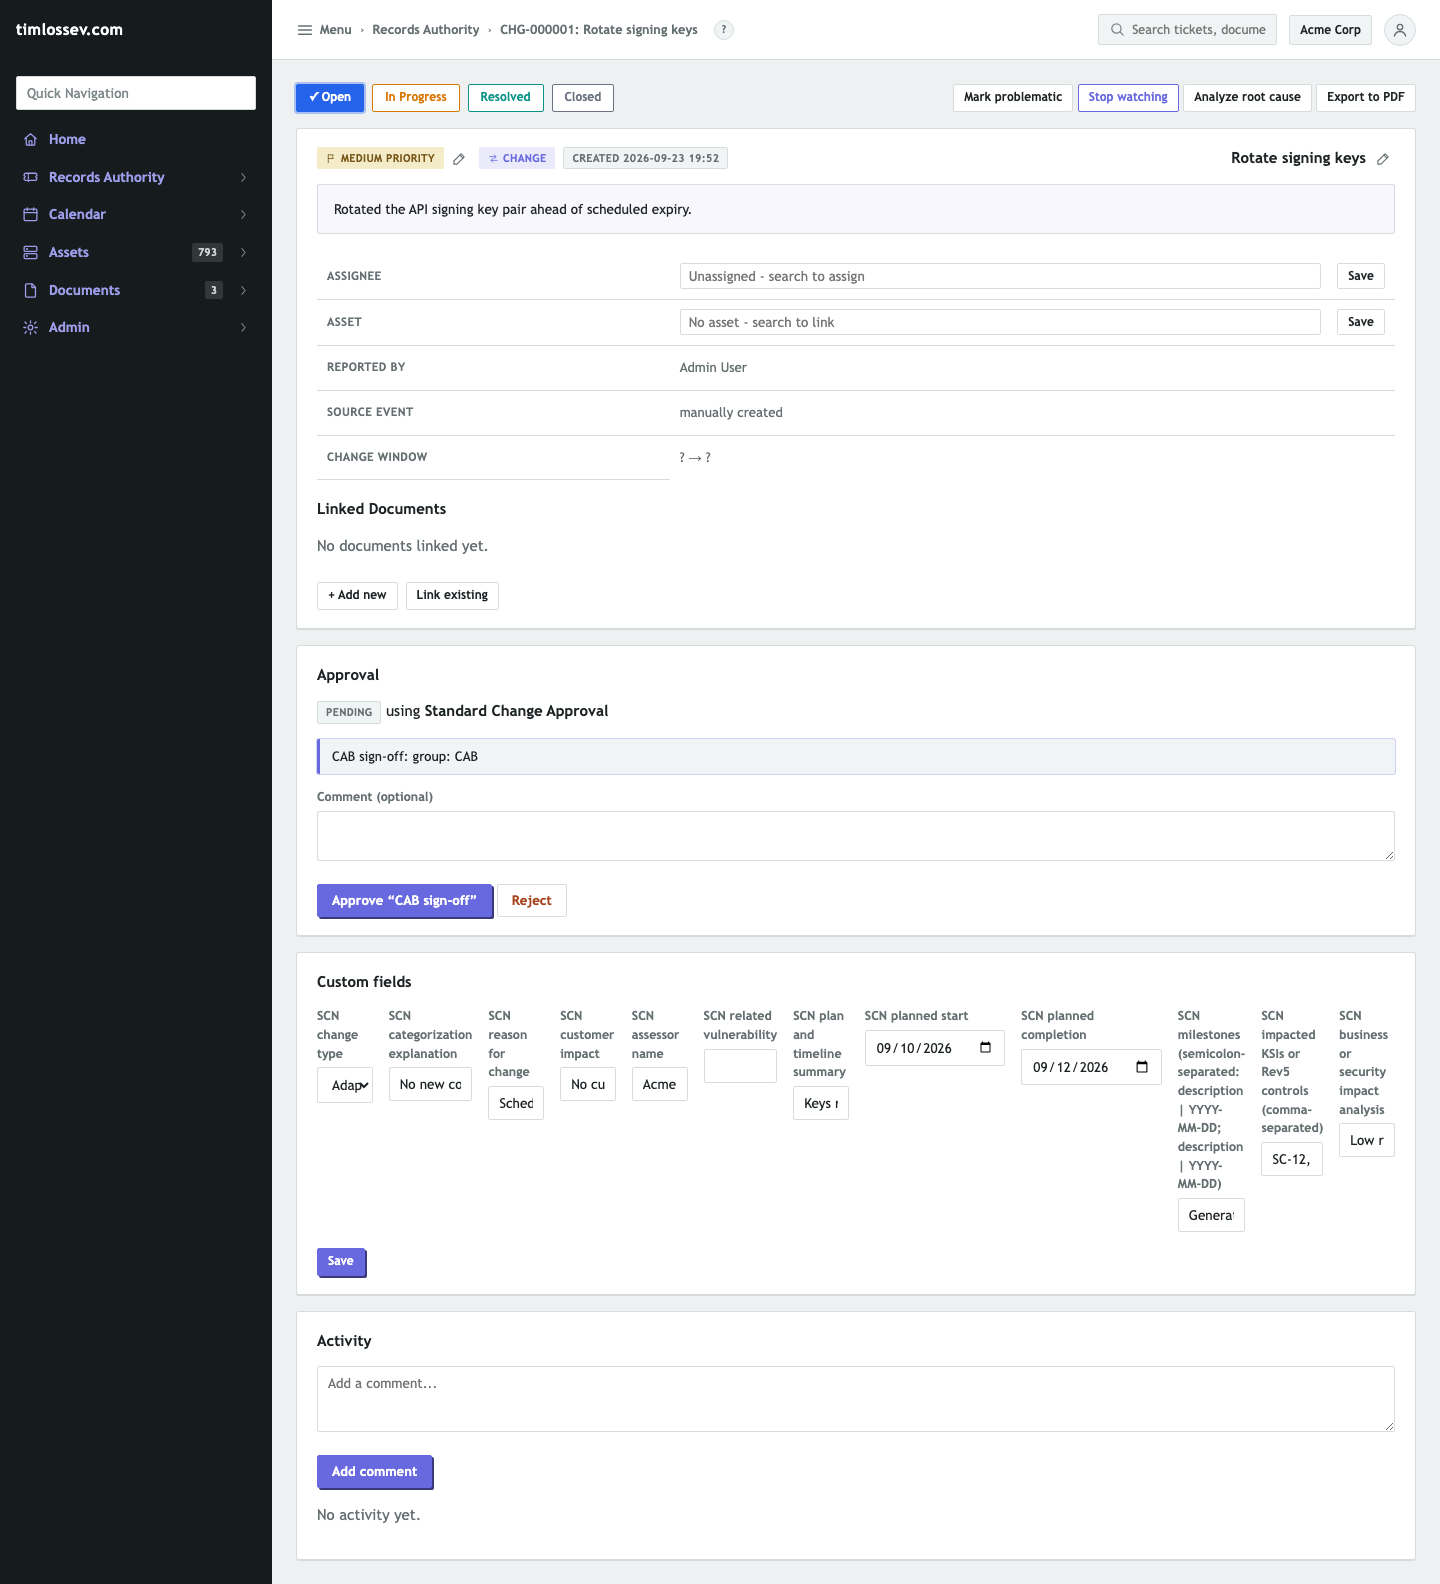
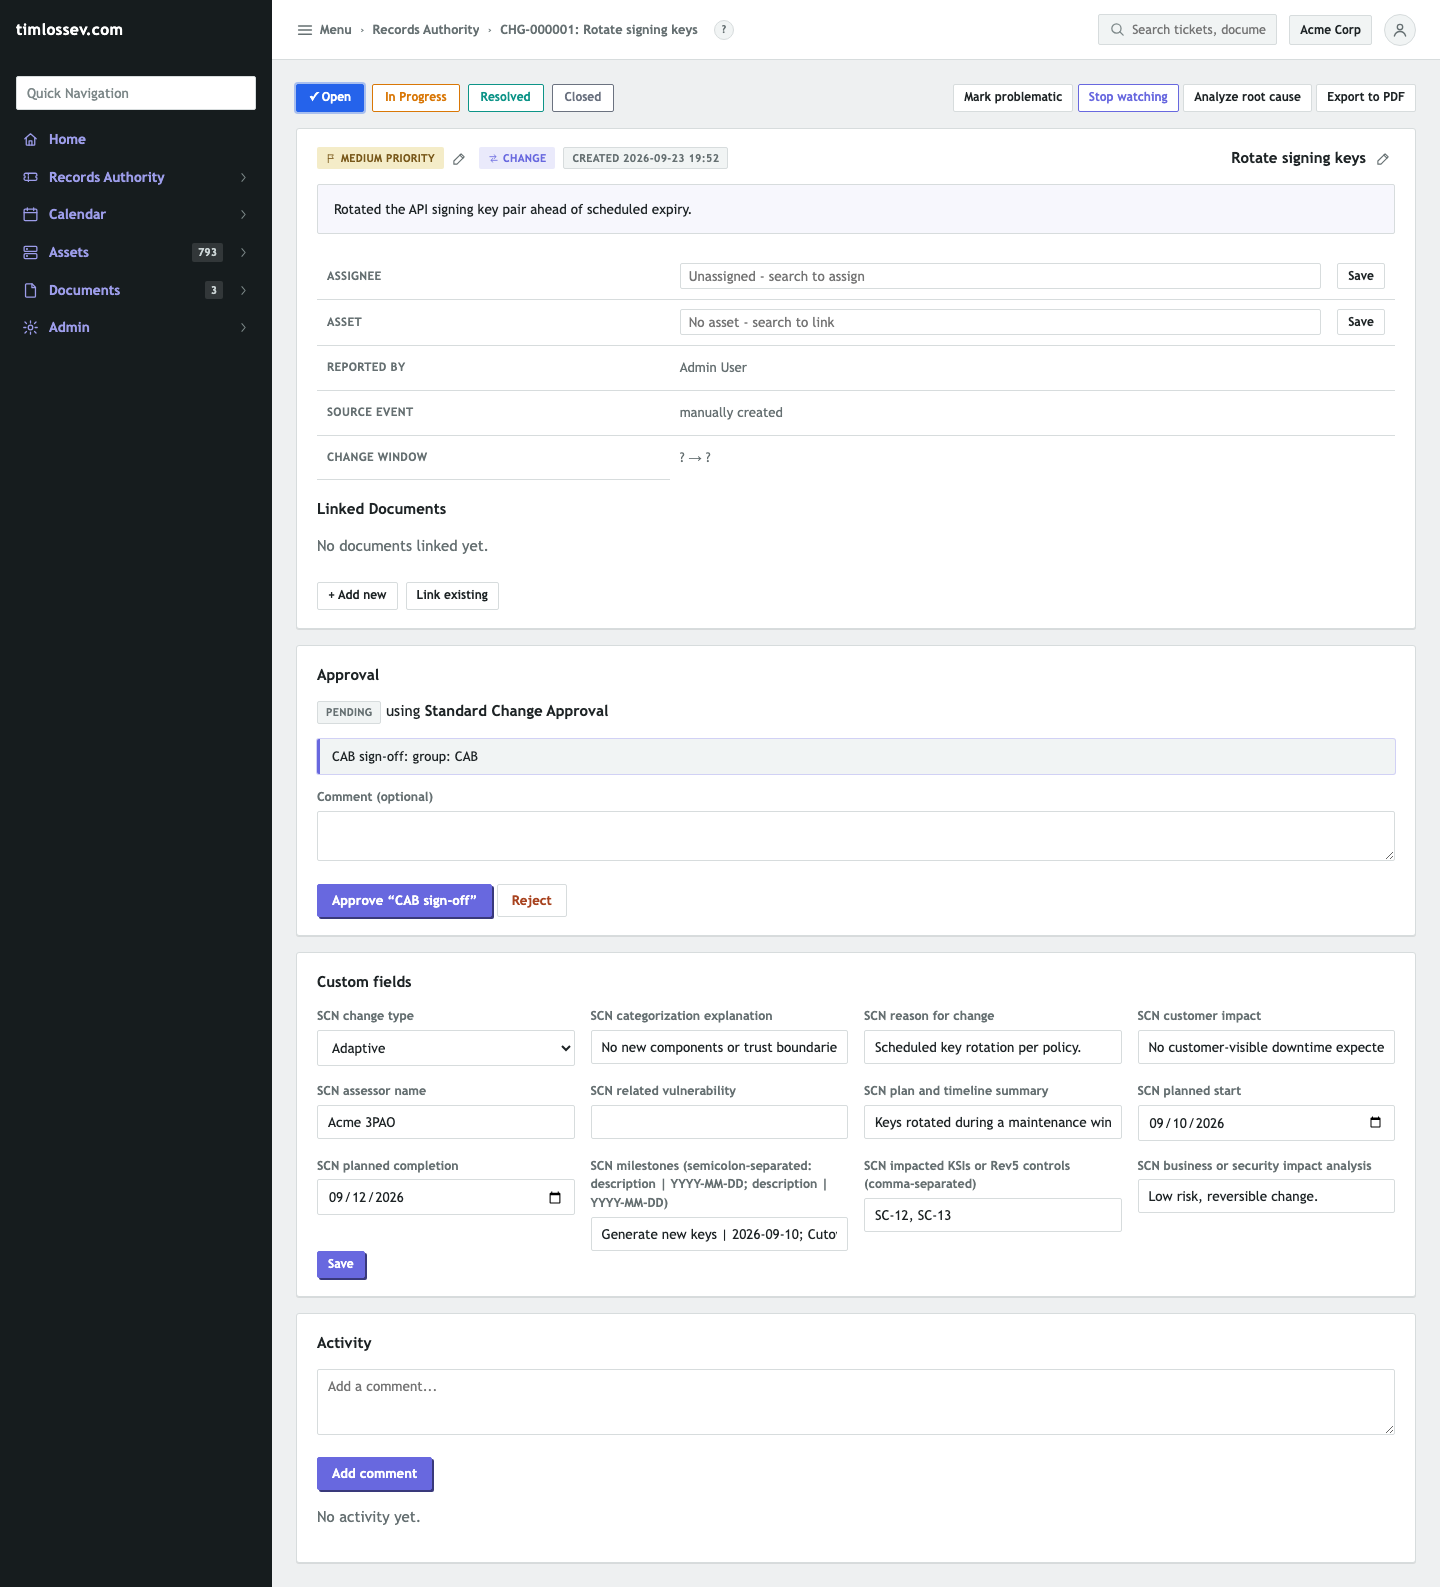
Wrap ticket custom fields into a grid instead of squeezing them onto one line
Both the New Ticket form and a ticket's own detail page wrapped custom
fields in .form-row -- a plain flex row with no wrap, so every field
shrank to fit rather than moving to a new line. Fine for two or three
fields, unreadable for a set like FedRAMP SCN's eleven (every input a
sliver a few characters wide). New .custom-fields-grid class reuses
the same auto-fill-grid technique .catalog-grid already established:
each field claims at least 220px, the grid packs as many per row as
fit and wraps the rest, so field count no longer trades off against
readability.

Refreshed docs/screenshots/scn-01-change-ticket.png (referenced from
docs/fedramp-cr26-primer.md) against the new layout.

diff --git a/backend/src/rain/web/static/css/app.css b/backend/src/rain/web/static/css/app.css
@@ -728,6 +728,19 @@ input[type=checkbox] { width: auto; margin-right: 6px; }
    without needing it. */
 .field-label-spacer { visibility: hidden; }
 
+/* A ticket/asset's own custom fields -- an open-ended, tenant-defined
+   set (a Security Control's 8, a FedRAMP SCN's 11, ...) that a plain
+   .form-row squeezed onto one unbroken flex line, each field shrinking
+   to stay on it -- with enough fields, every input goes cramped and
+   nearly unreadable. This wraps instead: same auto-fill-grid technique
+   .catalog-grid already uses, each field claiming at least 220px and
+   the grid packing as many per row as actually fit, wrapping the rest
+   -- readable at any field count, no field narrower than the last one
+   that still fit. margin-bottom zeroed on .field here since the grid's
+   own gap already spaces rows; keeping both stacked the two doubled up. */
+.custom-fields-grid { display: grid; grid-template-columns: repeat(auto-fill, minmax(220px, 1fr)); gap: 16px; }
+.custom-fields-grid > .field { margin-bottom: 0; }
+
 /* Light grouping for a "busy" form with many fields -- a tinted,
    rounded band per logical group (e.g. Approval Flows' own per-step
    rows and Service Catalog's per-question rows already use this same

diff --git a/backend/src/rain/web/templates/tickets/detail.html b/backend/src/rain/web/templates/tickets/detail.html
@@ -193,7 +193,7 @@
 <div class="card">
   <div class="card-title">Custom fields</div>
   <form method="post" action="/tickets/{{ ticket.id }}/fields">
-    <div class="form-row" data-fields-container>
+    <div class="custom-fields-grid" data-fields-container>
       {% with values = field_values %}
       {% include "tickets/_fields_fragment.html" %}
       {% endwith %}

diff --git a/backend/src/rain/web/templates/tickets/form.html b/backend/src/rain/web/templates/tickets/form.html
@@ -61,7 +61,7 @@
 
     {% if fields %}
     <h3>Custom fields</h3>
-    <div class="form-row" data-fields-container>
+    <div class="custom-fields-grid" data-fields-container>
       {% include "tickets/_fields_fragment.html" %}
     </div>
     {% endif %}
